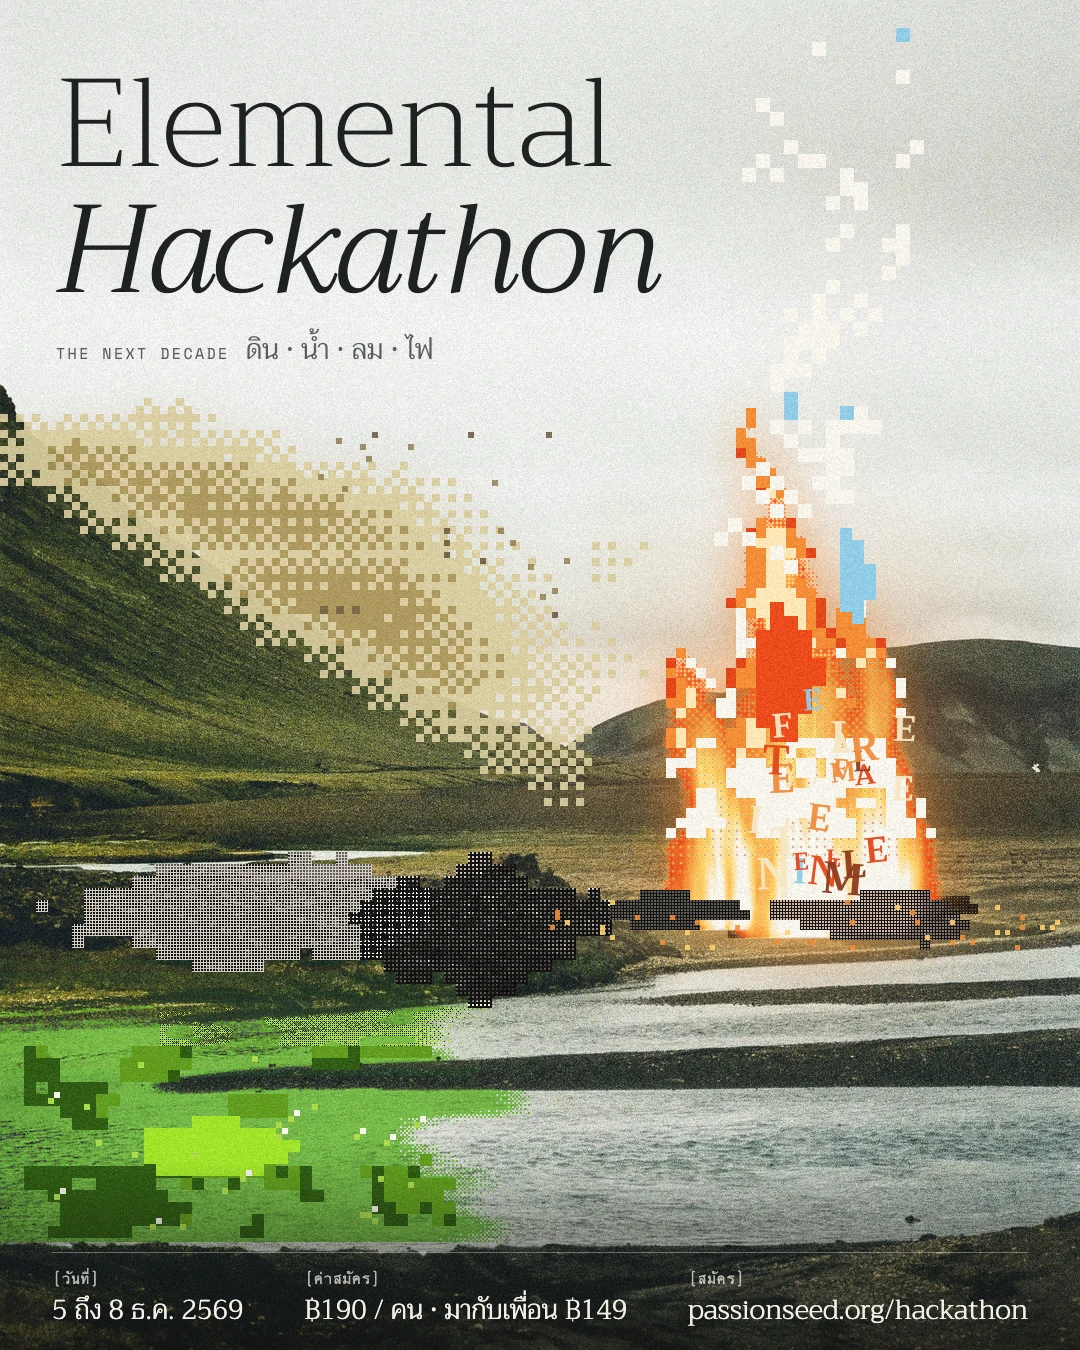
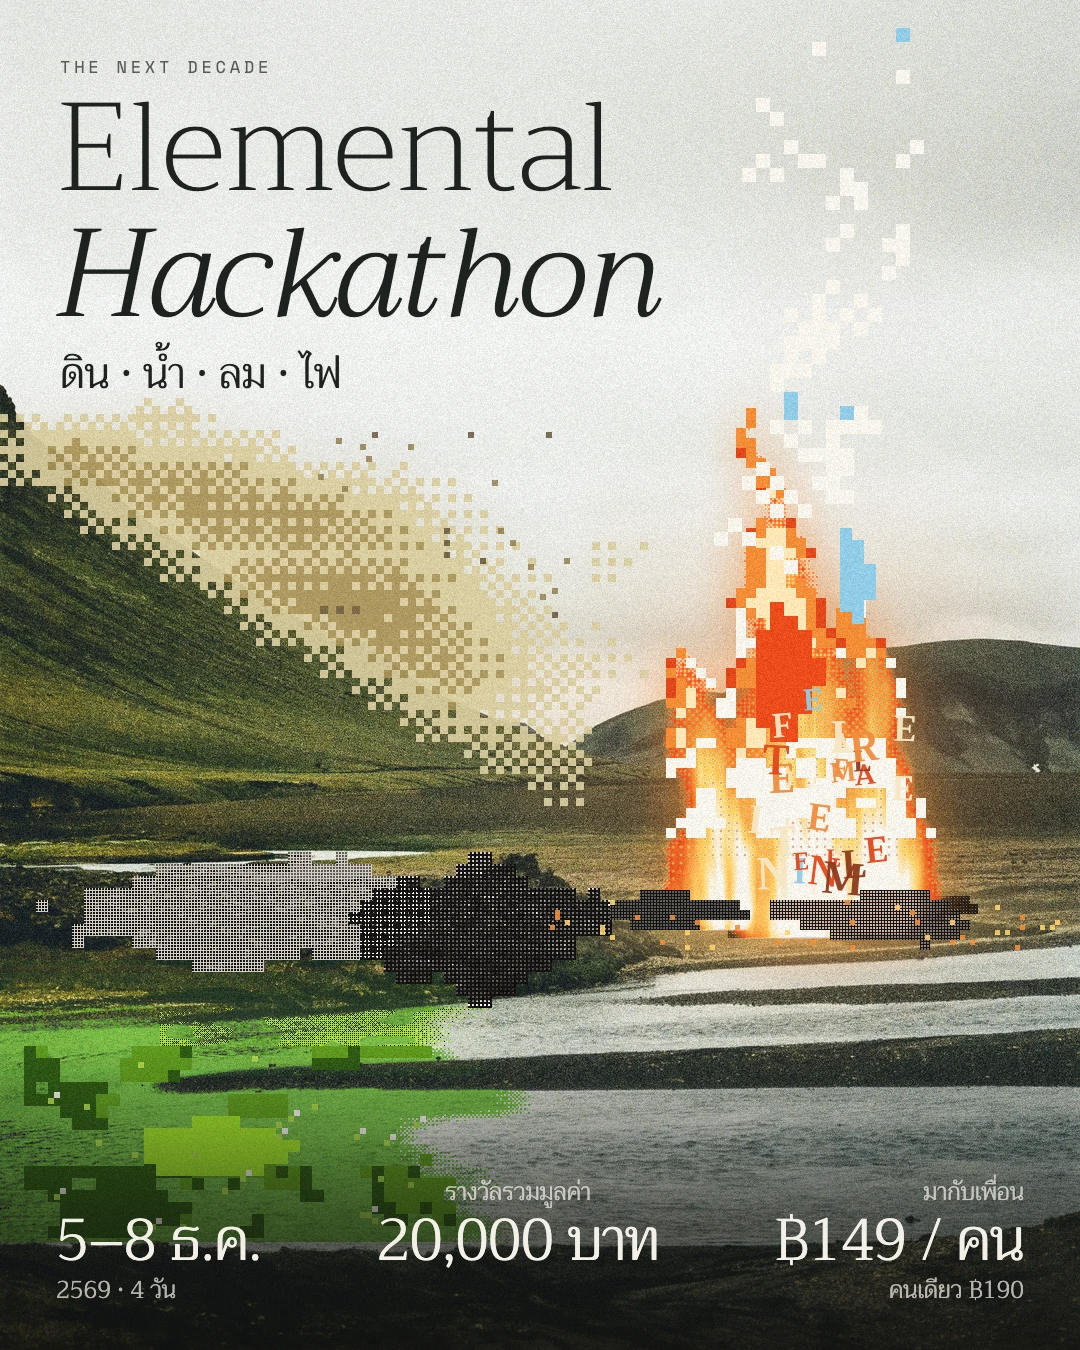
feat(hackathon): Elemental poster text with a clear hierarchy
Saved locally; not pushed. Series name above the title, the Thai
elements as the title's second half, and three facts at the bottom on
one baseline: dates, the prize total (20,000 baht, told by Angpao) and
the friend price leading. No registration link, no bracket labels, a
softer fade instead of a footer band.

diff --git a/components/hackathon/poster/elemental/ElementalKeyPoster.tsx b/components/hackathon/poster/elemental/ElementalKeyPoster.tsx
@@ -2,7 +2,7 @@ import { Trirong } from "next/font/google";
 import type { ReactNode } from "react";
 
 import { EL, EL_FONT } from "./brand";
-import { ELEMENTAL, thaiDateLine } from "./facts";
+import { ELEMENTAL, prizeTotal, thaiDateLine, thaiDayRange } from "./facts";
 
 /**
  * Elemental Hackathon key visual, 1080x1350.
@@ -48,11 +48,17 @@ function fireLetters() {
 }
 const LETTERS = fireLetters();
 
-function Detail({ tag, children }: { tag: string; children: ReactNode }) {
+/**
+ * One of the three facts at the bottom: a small line, the big number, a
+ * small line. Three facts, three sizes, so the eye knows what leads.
+ */
+function Fact({ above, big, below, align = "left" }: { above?: ReactNode; big: ReactNode; below?: ReactNode; align?: "left" | "center" | "right" }) {
   return (
-    <div className="flex flex-col gap-[2px]">
-      <span style={{ fontFamily: EL_FONT.mono, fontSize: 15, letterSpacing: "0.04em", color: EL.creamSoft }}>{tag}</span>
-      <span style={{ fontFamily: EL_FONT.display, fontWeight: 300, fontSize: 27, lineHeight: "36px", color: EL.cream }}>{children}</span>
+    <div className="flex flex-col" style={{ textAlign: align, color: EL.cream, fontFamily: EL_FONT.display }}>
+      {/* Both small lines always take their space, so the three big numbers share one baseline. */}
+      <span style={{ fontWeight: 300, fontSize: 24, lineHeight: "32px", color: EL.creamSoft }}>{above ?? "\u00a0"}</span>
+      <span style={{ fontWeight: 300, fontSize: 58, lineHeight: "66px", letterSpacing: "-0.01em" }}>{big}</span>
+      <span style={{ fontWeight: 300, fontSize: 24, lineHeight: "32px", color: EL.creamSoft }}>{below ?? "\u00a0"}</span>
     </div>
   );
 }
@@ -69,7 +75,8 @@ export function ElementalKeyPoster({ id = "elemental-key", sky = "grey" }: { id?
         <defs>
           <linearGradient id="el-key-foot" x1="0" y1="0" x2="0" y2="1">
             <stop offset="0" stopColor="#0f0f0d" stopOpacity="0" />
-            <stop offset="1" stopColor="#0f0f0d" stopOpacity="0.7" />
+            <stop offset="0.55" stopColor="#0f0f0d" stopOpacity="0.55" />
+            <stop offset="1" stopColor="#0f0f0d" stopOpacity="0.85" />
           </linearGradient>
           <filter id="el-key-grain" x="0" y="0" width="100%" height="100%">
             <feTurbulence type="fractalNoise" baseFrequency="0.9" numOctaves="2" seed="4" stitchTiles="stitch" />
@@ -91,12 +98,15 @@ export function ElementalKeyPoster({ id = "elemental-key", sky = "grey" }: { id?
             {l.ch}
           </text>
         ))}
-        <rect y={1160} width={W} height={H - 1160} fill="url(#el-key-foot)" />
+        <rect y={1040} width={W} height={H - 1040} fill="url(#el-key-foot)" />
       </svg>
 
-      {/* Title */}
-      <div className="absolute left-[56px] top-[62px]" style={{ color: EL.ink }}>
-        <h1 className="m-0" style={{ fontFamily: EL_FONT.display, lineHeight: 1.02, letterSpacing: "-0.01em" }}>
+      {/* Title lockup: series above, English title, the Thai elements as its second half */}
+      <div className="absolute left-[56px] top-[54px]" style={{ color: EL.ink }}>
+        <div style={{ fontFamily: EL_FONT.mono, fontSize: 17, letterSpacing: "0.22em", color: EL.inkSoft, marginLeft: 4 }}>
+          {ELEMENTAL.series.toUpperCase()}
+        </div>
+        <h1 className="m-0 mt-[6px]" style={{ fontFamily: EL_FONT.display, lineHeight: 1.02, letterSpacing: "-0.01em" }}>
           <span className="block" style={{ fontWeight: 200, fontSize: 124 }}>
             {ELEMENTAL.edition}
           </span>
@@ -104,19 +114,16 @@ export function ElementalKeyPoster({ id = "elemental-key", sky = "grey" }: { id?
             Hackathon
           </span>
         </h1>
-        <div className="mt-[14px] flex items-baseline gap-4" style={{ color: EL.inkSoft }}>
-          <span style={{ fontFamily: EL_FONT.mono, fontSize: 15, letterSpacing: "0.16em" }}>{ELEMENTAL.series.toUpperCase()}</span>
-          <span style={{ fontFamily: EL_FONT.display, fontWeight: 300, fontSize: 28 }}>{thai.join(" · ")}</span>
+        <div className="mt-[8px]" style={{ fontFamily: EL_FONT.display, fontWeight: 300, fontSize: 42, lineHeight: "56px", marginLeft: 4 }}>
+          {thai.join(" · ")}
         </div>
       </div>
 
-      {/* Details */}
-      <div className="absolute inset-x-[52px] top-[1252px] flex justify-between border-t pt-[14px]" style={{ borderColor: "rgba(243,239,230,0.35)" }}>
-        <Detail tag="[วันที่]">{thaiDateLine()}</Detail>
-        <Detail tag="[ค่าสมัคร]">
-          ฿{ELEMENTAL.priceBaht} / คน · มากับเพื่อน ฿{ELEMENTAL.groupPriceBaht}
-        </Detail>
-        <Detail tag="[สมัคร]">{ELEMENTAL.url}</Detail>
+      {/* Three facts: when, the prize, the price with the friend deal leading */}
+      <div className="absolute inset-x-[56px] bottom-[44px] flex items-end justify-between">
+        <Fact big={thaiDayRange()} below={`${thaiDateLine().split(" ").pop()} · ${ELEMENTAL.days} วัน`} />
+        <Fact align="center" above="รางวัลรวมมูลค่า" big={`${prizeTotal()} บาท`} />
+        <Fact align="right" above="มากับเพื่อน" big={`฿${ELEMENTAL.groupPriceBaht} / คน`} below={`คนเดียว ฿${ELEMENTAL.priceBaht}`} />
       </div>
 
       {/* Grain over the type too, so it sits in the same film */}

diff --git a/components/hackathon/poster/elemental/facts.ts b/components/hackathon/poster/elemental/facts.ts
@@ -8,6 +8,7 @@ import { formatThaiDate } from "@/lib/content/shift-cohort";
  *   draft in PR #87 says ฿199 alone; settle that before this ships.
  * - Elements and theme: private/hackathon-december-2026.md (PR #87) and
  *   Angpao, 2026-11-19 (Aether is the fifth element).
+ * - Prize total: told by Angpao, 2026-11-19 (not yet in company-brain).
  * Change a fact here, never in a poster.
  */
 export const ELEMENTAL = {
@@ -18,6 +19,7 @@ export const ELEMENTAL = {
   days: 4,
   priceBaht: 190,
   groupPriceBaht: 149,
+  prizeTotalBaht: 20000,
   theme: "Environmental negligence",
   url: "passionseed.org/hackathon",
   elements: [
@@ -32,6 +34,17 @@ export const ELEMENTAL = {
 function parts(iso: string) {
   const [year, month, day] = iso.split("-").map(Number);
   return { year, month, day };
+}
+
+/** "5–8 ธ.ค.": the big date. */
+export function thaiDayRange(): string {
+  const s = parts(ELEMENTAL.startDate);
+  return `${s.day}–${formatThaiDate(ELEMENTAL.endDate, false)}`;
+}
+
+/** "20,000". */
+export function prizeTotal(): string {
+  return ELEMENTAL.prizeTotalBaht.toLocaleString("en-US");
 }
 
 /** "5 ถึง 8 ธ.ค. 2569": month once, Buddhist-era year. */
